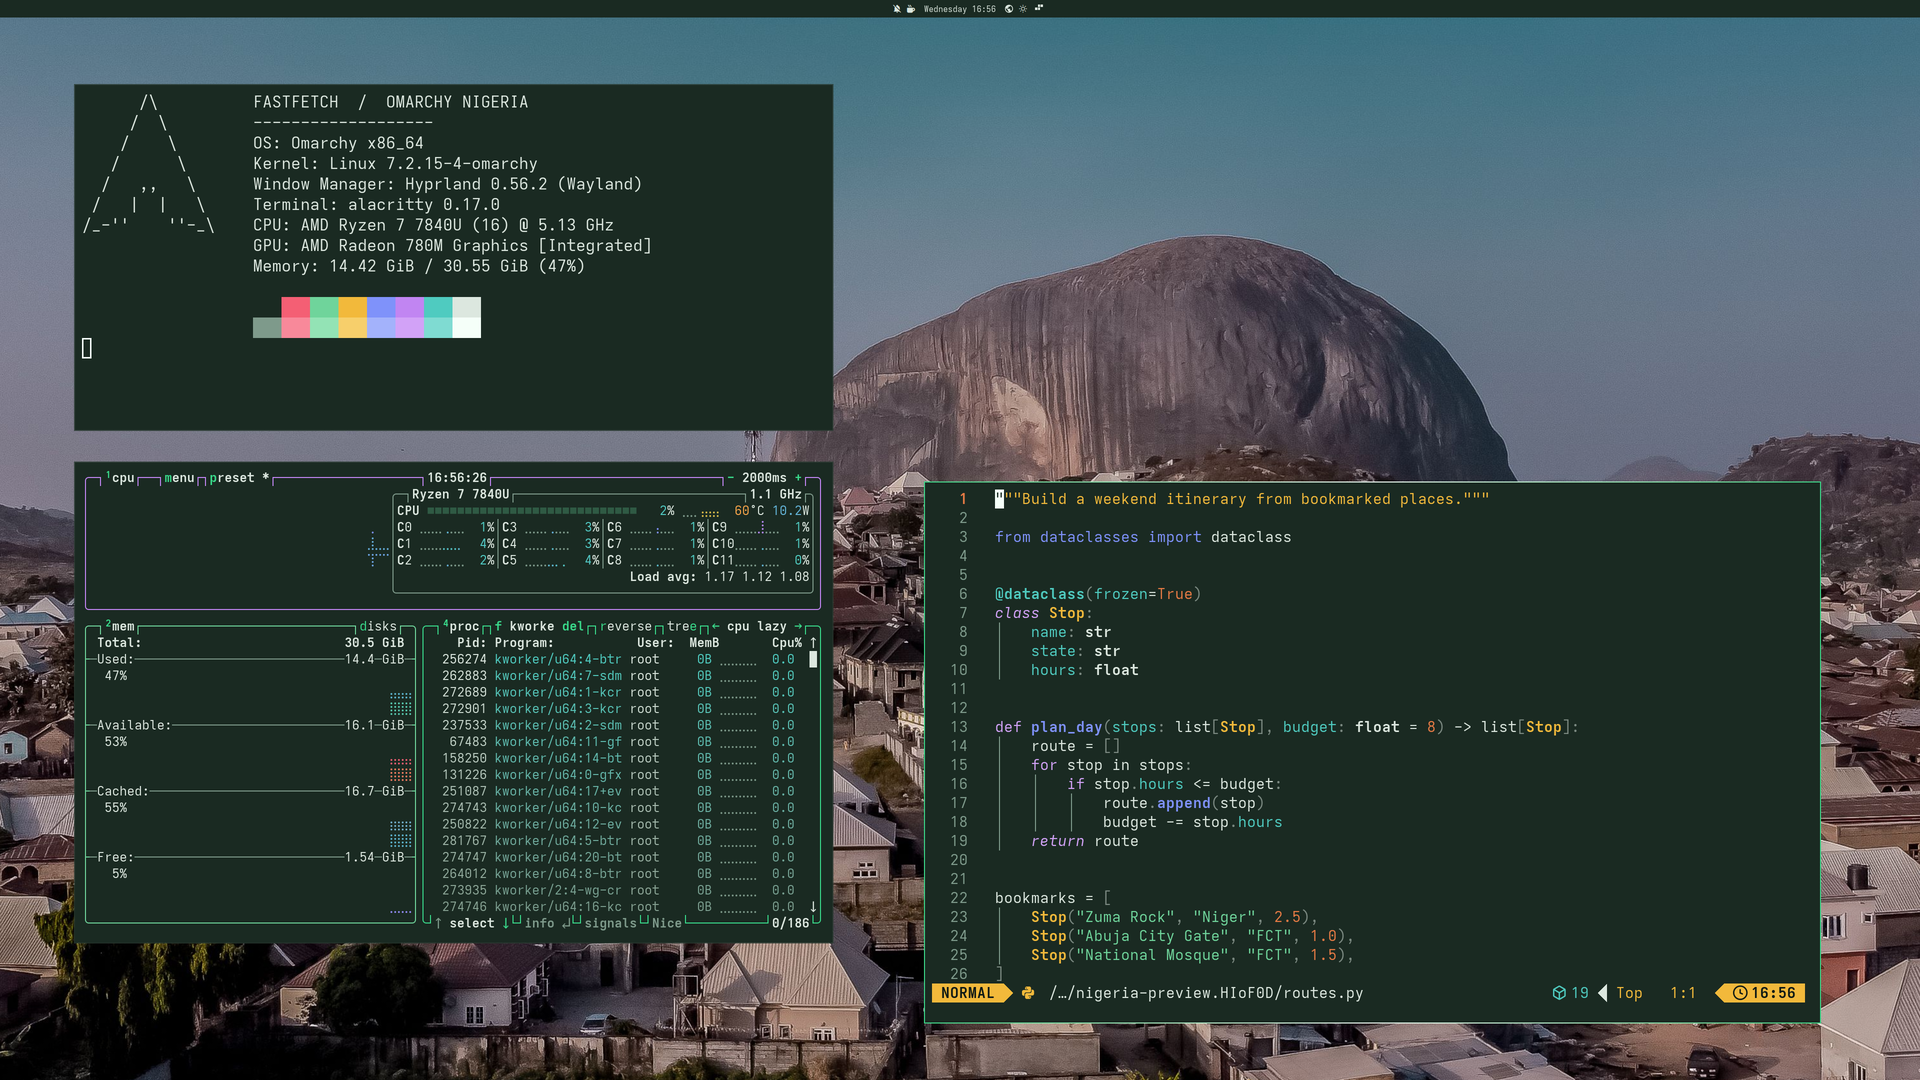
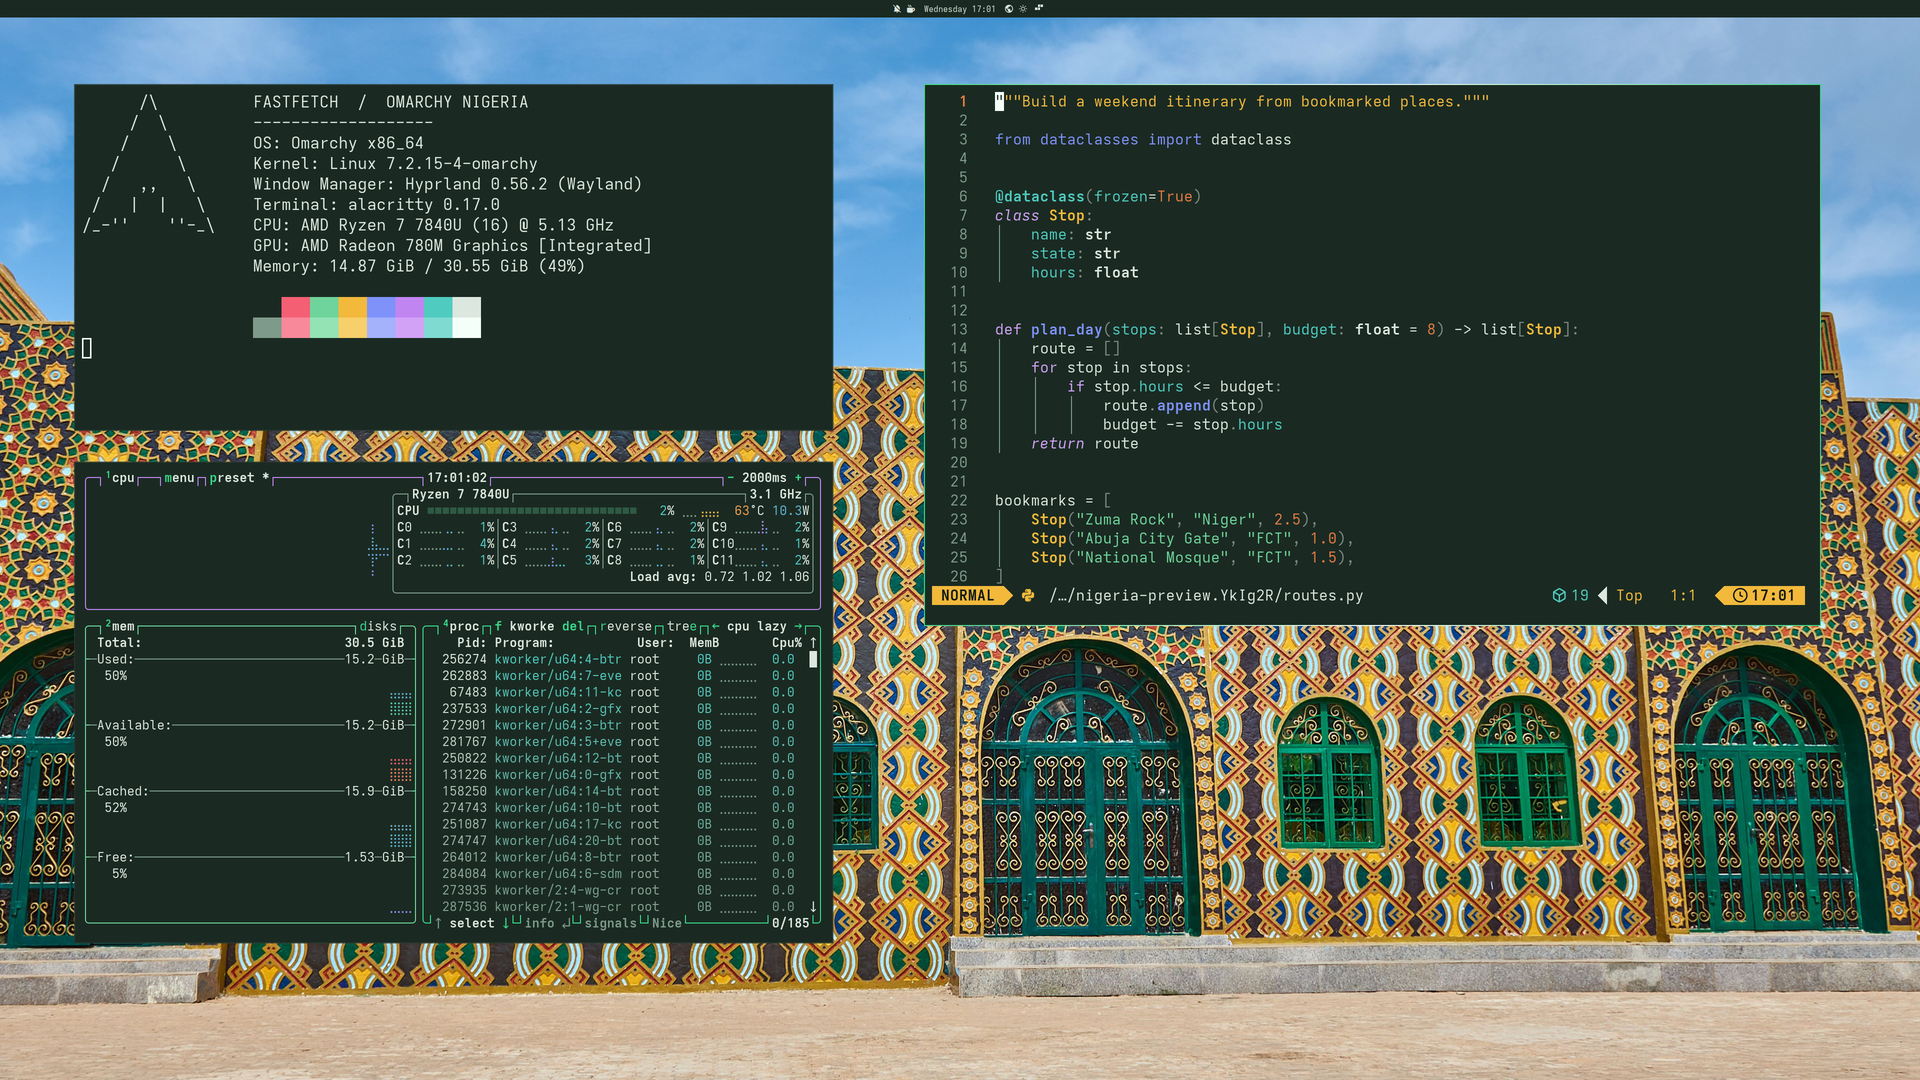
Feature the Emir’s Palace in the desktop preview

diff --git a/README.md b/README.md
@@ -1,8 +1,8 @@
 # Omarchy Nigeria
 
-![Omarchy Nigeria desktop with Fastfetch in Alacritty, Python in Neovim, and the btop system monitor over Zuma Rock at dusk](preview.png)
+![Omarchy Nigeria desktop with Fastfetch in Alacritty, Python in Neovim, and the btop system monitor over the Emir’s Palace in Dutse](preview.png)
 
-*Zuma Rock at dusk, photographed by Mukhtar Shuaib Mukhtar. The desktop shows Fastfetch in Alacritty, Neovim, and btop.*
+*The Emir’s Palace in Dutse, photographed by Sani Maikatanga. The desktop shows Fastfetch in Alacritty, Neovim, and btop.*
 
 **Switch workspaces. See a different side of Nigeria.**
 
